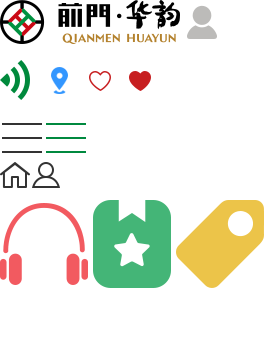
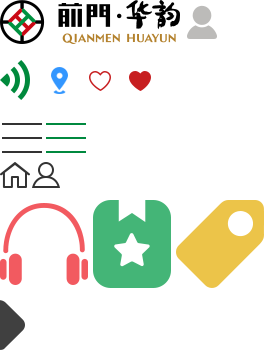
店内实景->增加热点完成

diff --git a/app/panel_details.html b/app/panel_details.html
@@ -12,7 +12,7 @@
 <div class="header" dot-template="header"></div>
 <!--//End--header-->
 
-<div dot-template="panel-base"></div>
+<div class="panel" dot-template="panel-base"></div>
 
 
 <div class="footer"></div>
@@ -20,8 +20,19 @@
 <script type="text/x-dot-template" id="panel-base">
     <div class="swiper-container">
         <div class="swiper-wrapper">
-            {{ for( var i=0; i < it.imageList.length; i++ ){ }}
-            <div class="swiper-slide"><img src="{{=it.imageList[i].image.src}}@!o2o-home-banner" alt=""></div>
+            {{
+            for( var i=0; i < it.imageList.length; i++ ){
+            var $imageList=it.imageList;
+            var $hotSpotList=$imageList[i].image.hotSpotList;
+            }}
+            <div class="swiper-slide">
+                <img src="{{=$imageList[i].image.src}}@!o2o-home-banner" alt="">
+                {{ for(var j=0; j < $hotSpotList.length; j++){ }}
+                <span class="hot" data-abscissa="{{=$hotSpotList[j].abscissa}}" data-ordinate="{{=$hotSpotList[j].ordinate}}">
+                    <a href="/app/product_details.html?productId={{=$hotSpotList[j].productModel.id}}&title={{=$hotSpotList[j].productModel.name}}"><em>{{=$hotSpotList[j].productModel.name}}</em><i class="icon"></i></a>
+                </span>
+                {{ } }}
+            </div>
             {{ } }}
         </div>
         <!-- Add Pagination -->
@@ -48,7 +59,6 @@
 </script>
 
 
-
 <script src="common/js/common.js"></script>
 <script src="common/js/util.js"></script>
 <script src="common/js/weixin.js"></script>
@@ -59,7 +69,7 @@
 
 
 <script>
-    $().ready(function() {
+    $().ready(function () {
         initPage();
     });
 
@@ -74,13 +84,30 @@
         $("title").html(PageVariable.title);
         $("[dot-template=header]").html(renderHeader(PageVariable));
 
-        getPanelById(PageVariable.panelId, function() {
+        getPanelById(PageVariable.panelId, function () {
             renderTemplate(PageVariable.template.panelBase, PageVariable.panelList);
             $(".audio-box").each(function () {
                 PageVariable.audioList.push(new Audio($(this).attr("id")));
             });
-        });
 
+
+            //热点部分
+            $('.swiper-wrapper span.hot').each(function () {
+                var _this = $(this);
+                var locationParam = getScreenInfo(_this.attr('data-abscissa'), _this.attr('data-ordinate'));
+                var $top=locationParam.top;
+                var $left=locationParam.left;
+                var $aWidth=_this.find('a').width()+36;
+                if($left > $aWidth){
+                    _this.addClass('hot_left');
+                }else{
+                    _this.addClass('hot_right');
+                }
+                _this.css({top: $top + 'px', left: $left + 'px'});
+            })
+
+
+        });
 
 
     }

diff --git a/app/guide/css/layouts.css b/app/guide/css/layouts.css
@@ -169,7 +169,7 @@ img {
 	display: block;
 }
 /*--//End Reset--*/
-	.icon {
+.icon {
 	background: url(../../images/icon.png) 0 0 no-repeat;
 	background-size: 132px auto;
 }
@@ -766,8 +766,68 @@ img {
     right:16px;
     bottom:60px;
 }
+
+.detail .panel .hot {
+    width:9px;
+    height:9px;
+    position: absolute;
+}
+
+.detail .panel .hot:after{
+    content: '';
+    width:9px;
+    height:9px;
+    background: #fff;
+    -webkit-border-radius:50%;
+    border-radius:50%;
+    position: absolute;
+    top:0;
+    right:0;
+    border: 3px solid rgba(0,0,0,.7);
+}
+.detail .panel .hot a {
+    padding-left:10px;
+    line-height:25px;
+    text-align: center;
+    font-size:15px;
+    color: #fff;
+    position: absolute;
+    top:-5px;
+    left:-21px;
+    white-space:nowrap;
+    background:rgba(0, 0, 0, 0.75);
+    -webkit-border-radius:5px 0 0 5px;
+    border-radius:5px 0 0 5px;
+    transform:translateX(-100%);
+}
+.detail .panel .hot i{
+    width:13px;
+    height:25px;
+    background-position: 0 -150px;
+    position: absolute;
+    top:0;
+    right:-13px;
+    z-index:1;
+}
+.detail .panel .hot em {
+    font-style: normal;
+    position: relative;
+    z-index:2;
+}
+
+.detail .panel .hot_right a{
+    padding-right:10px;
+    transform:translateX(0);
+    left: 23px;
+    -webkit-border-radius:0 5px 5px 0;
+    border-radius:0 5px 5px 0;
+}
+.detail .panel .hot_right i {
+    left:-13px;
+    transform: rotate(180deg);
+}
 /**/
-	.vertical {
+.vertical {
 	border-top: 1px solid #e6e6e6;
 	padding: 16px;
 	display: flex;

diff --git a/app/common/js/util.js b/app/common/js/util.js
@@ -121,16 +121,12 @@ var modal = {
     },
 };
 
-//轮播初始化
-// var swiper = new Swiper('.swiper-container', {
-//     slidesPerView: 'auto',
-//     centeredSlides: true,
-//     spaceBetween: 10,
-//     initialSlide: 0
-// });
-
-function swiperContaniner(obj) {
-    new Swiper(obj, {
+/**
+ * 轮播初始化
+ * @param className
+ */
+function swiperContaniner(className) {
+    new Swiper(className, {
         slidesPerView: 'auto',
         centeredSlides: true,
         spaceBetween: 10,
@@ -138,4 +134,16 @@ function swiperContaniner(obj) {
         autoHeight: true,
         pagination: '.swiper-pagination'
     })
+}
+
+/**
+ * 计算手机屏幕分辨率
+ * @param x
+ * @param y
+ * @returns {{top: Number, left: Number}}
+ */
+function getScreenInfo(x, y) {
+    var per = window.screen.width / 750;
+    var result = {'top': parseInt(x * per), 'left': parseInt(y * per)};
+    return result;
 }

diff --git a/app/guide/js/model.js b/app/guide/js/model.js
@@ -1,4 +1,5 @@
-var api_url = 'http://192.168.1.10';
+// var api_url = 'http://192.168.1.10';
+var api_url = 'http://192.168.1.72';
 
 var PageVariable = {
     template: {
